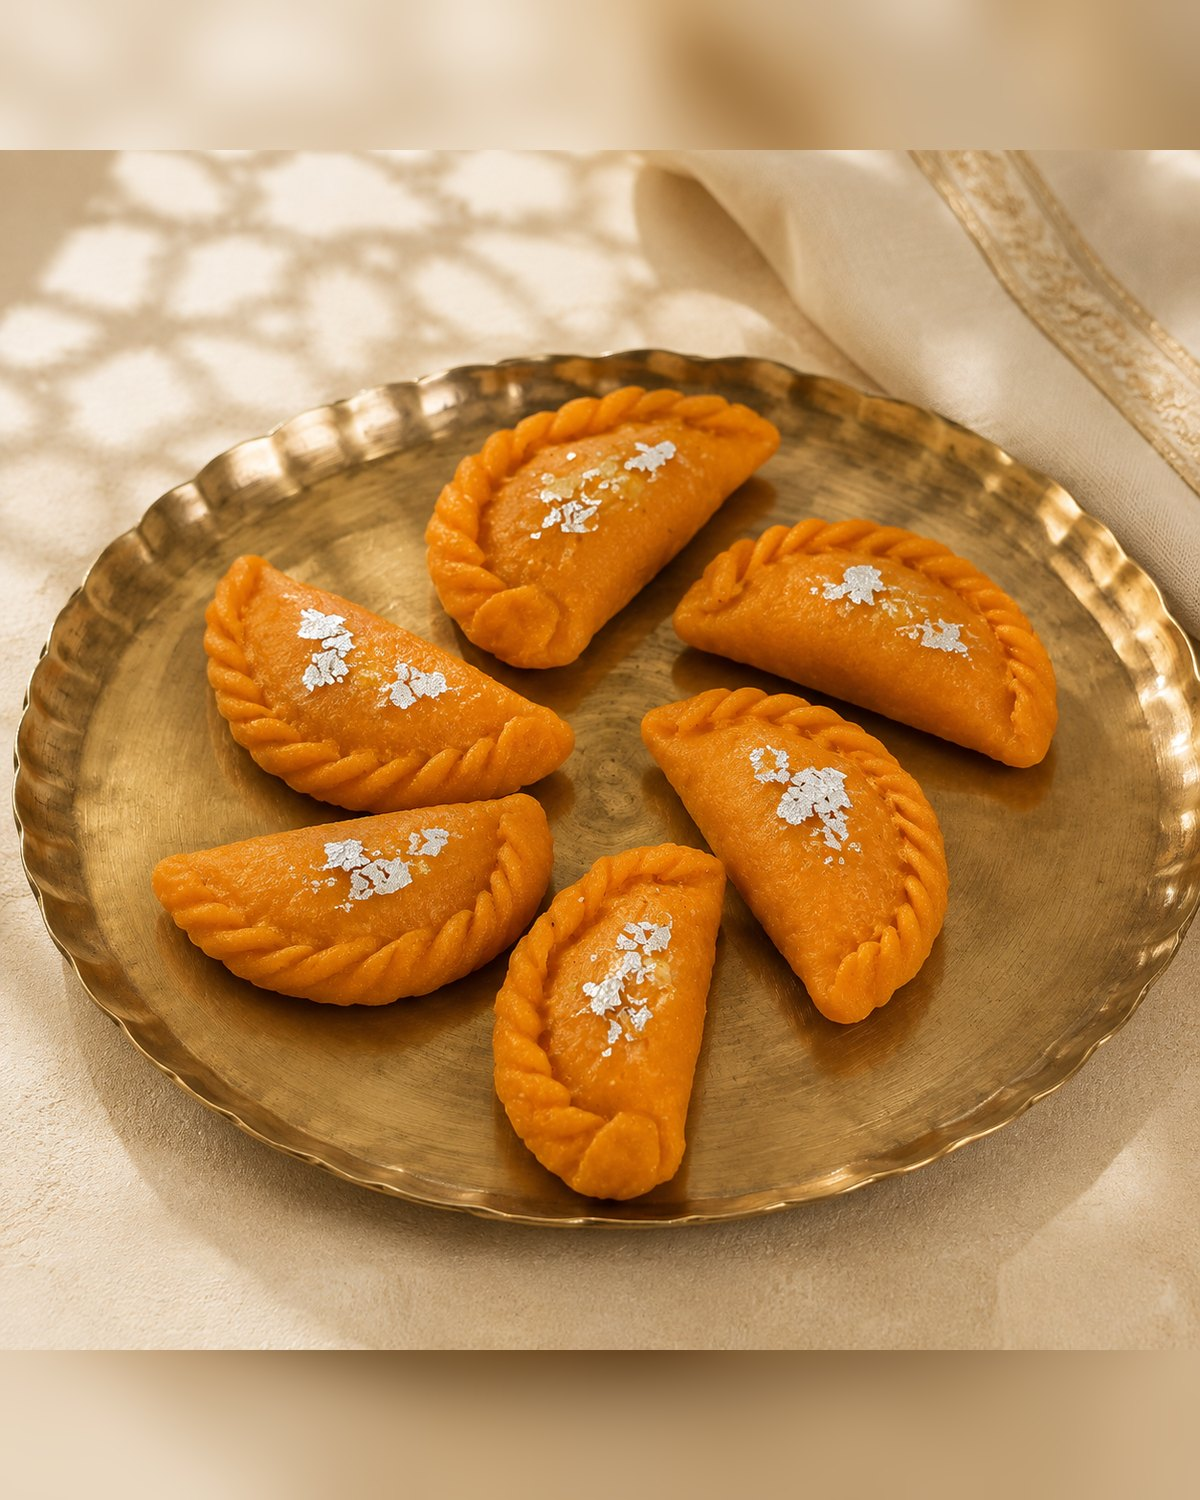
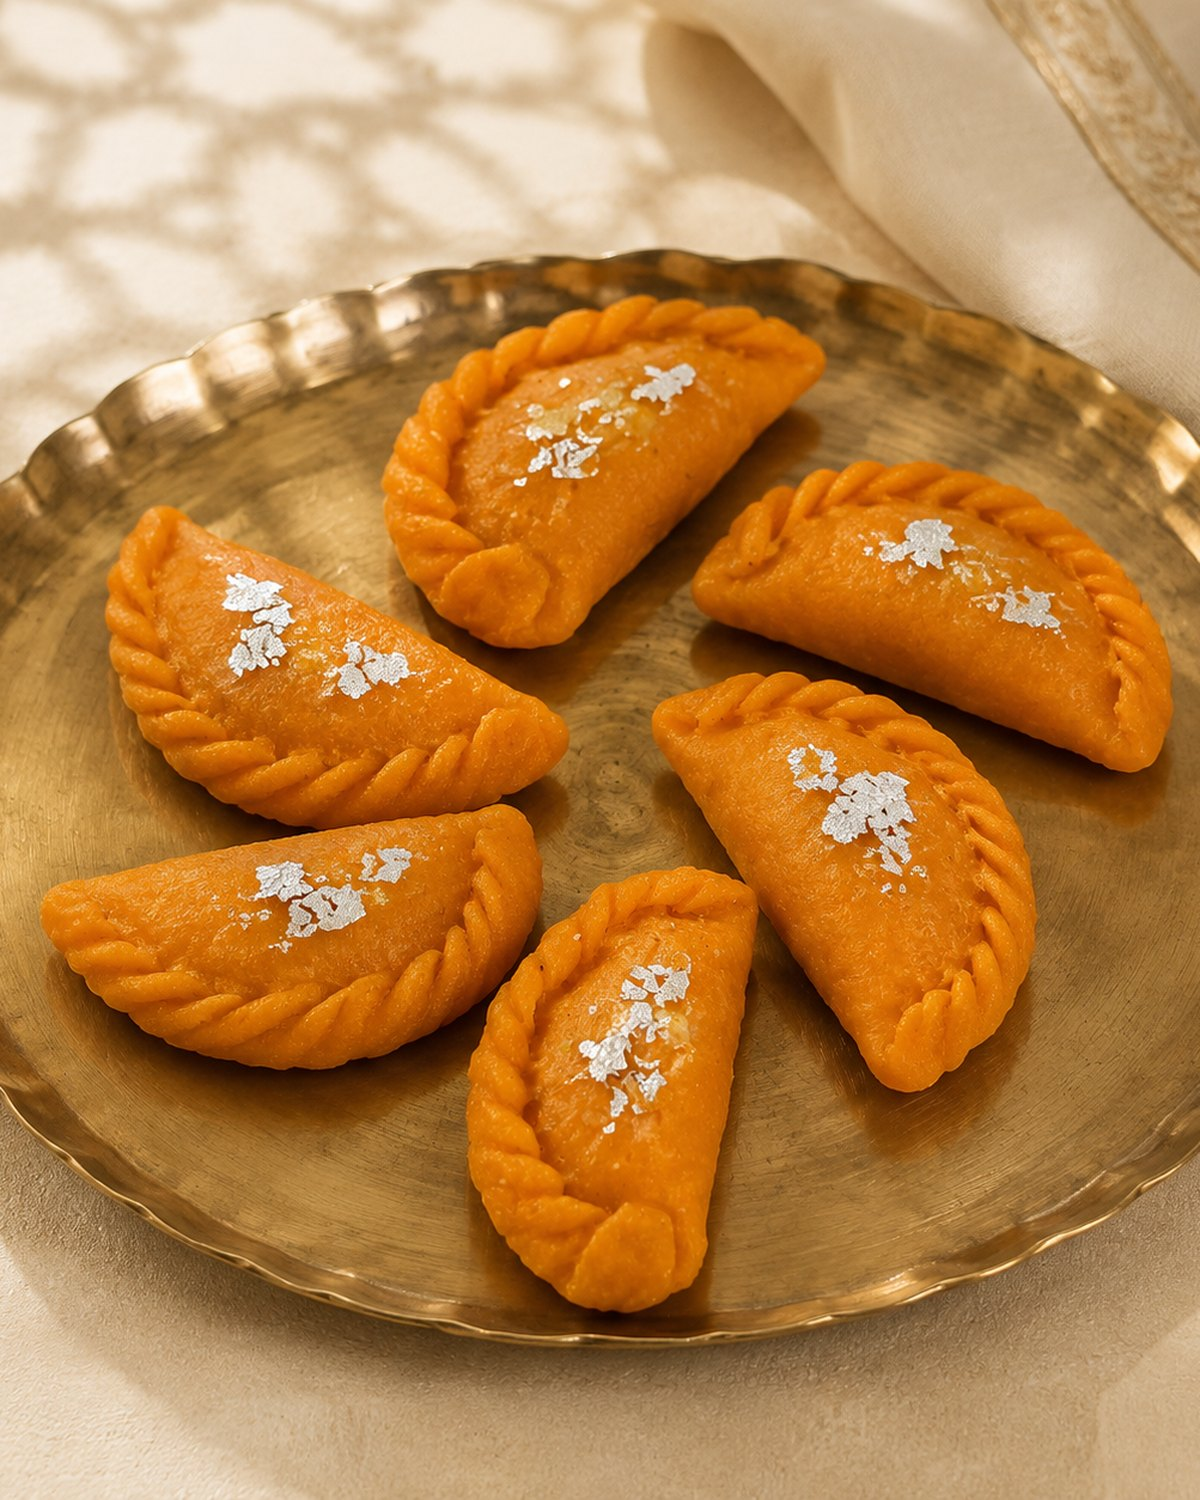
Crop the seven new photos to the card instead of padding them
Padded with a blurred copy, the new cards sat letterboxed next to the
full-bleed ones around them — the owner read it as a size problem. The
subjects here all clear a centre 4:5 crop (the yellow pond nudged 15px
right for its rim), so crop it is. Only the plates lose a sliver of rim.

Small Peacock Urli is now W 6.5 in × H 2 in in Supabase: narrower than
the 7.5 in original, same depth. The first pass had 6.5 in as height,
which put a "small" urli three times taller than the big one.

diff --git a/CONTEXT.md b/CONTEXT.md
@@ -369,11 +369,12 @@ _Newest first. Add an entry for every change — one line is fine. Format: `YYYY
   `Terms → Order size` rewritten in Supabase (it promised "rates step down at 10, 25, 50 and
   100"). Home-page and collections copy stopped saying "price slab". **New listings:** Yellow
   Pond Lotus Urli ₹249 (dimensions, weight and fragrance copied from Lotus Pond Urli, as asked)
-  and Small Peacock Urli ₹399 (width copied from Peacock Urli, height 6.5 in = 16.5 cm, pack
+  and Small Peacock Urli ₹399 (read as **W 6.5 in × H 2 in** — narrower than the 7.5 in Peacock
+  Urli, same depth; first pass had 6.5 in as the height, which read wrong on the card. Pack
   weight *estimated* at 1400 g) inserted over REST; the five mithai (₹20 laddoo/modak, ₹18
   jalebi/imriti, ₹25 gujiya, all in sets of 10) ride in **migration 023** because `min_qty`
-  needs the column first. Photos padded 1254² → 1200×1500 with a blurred copy, same as the
-  rangoli sets. **MRP = price + 30%, rounded up** on all seven (₹329, ₹519; ₹26/26/24/24/33) — owner's rule of thumb, to be tuned in the admin. Mithai
+  needs the column first. Photos are a centre 4:5 **crop** of the 1254² shots (the blurred-pad version
+  looked letterboxed next to the other cards, and nothing important sits at the edges here). **MRP = price + 30%, rounded up** on all seven (₹329, ₹519; ₹26/26/24/24/33) — owner's rule of thumb, to be tuned in the admin. Mithai
   fragrance blank, burn 5 h and pack weight 70–80 g/pc are placeholders to fill in the admin.
 
 - 2026-09-06 — **Tab icons are the circular seal too** — overrides the "tab icons stay the bare swan" note in the entry below. Owner asked for one mark everywhere. The 16px face does go to mush, which is why it was not done this way first, but retina screens request the 32px face and that one holds up. `scripts/make-logo.py` now feeds `seal()` to every output, so there is a single mark to maintain.
